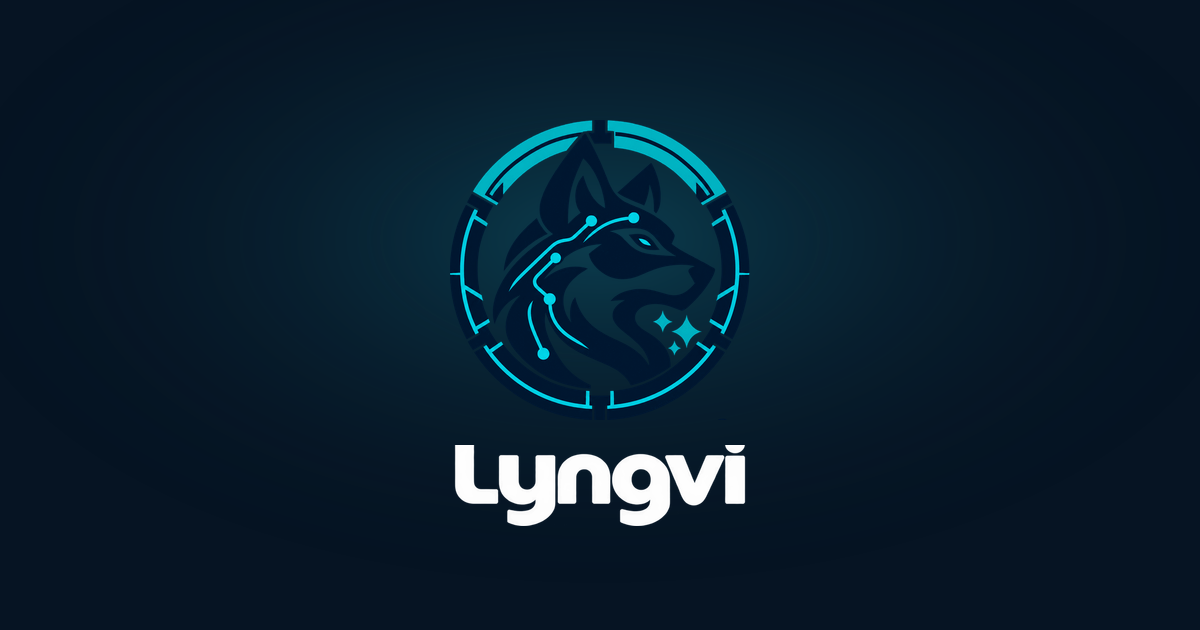
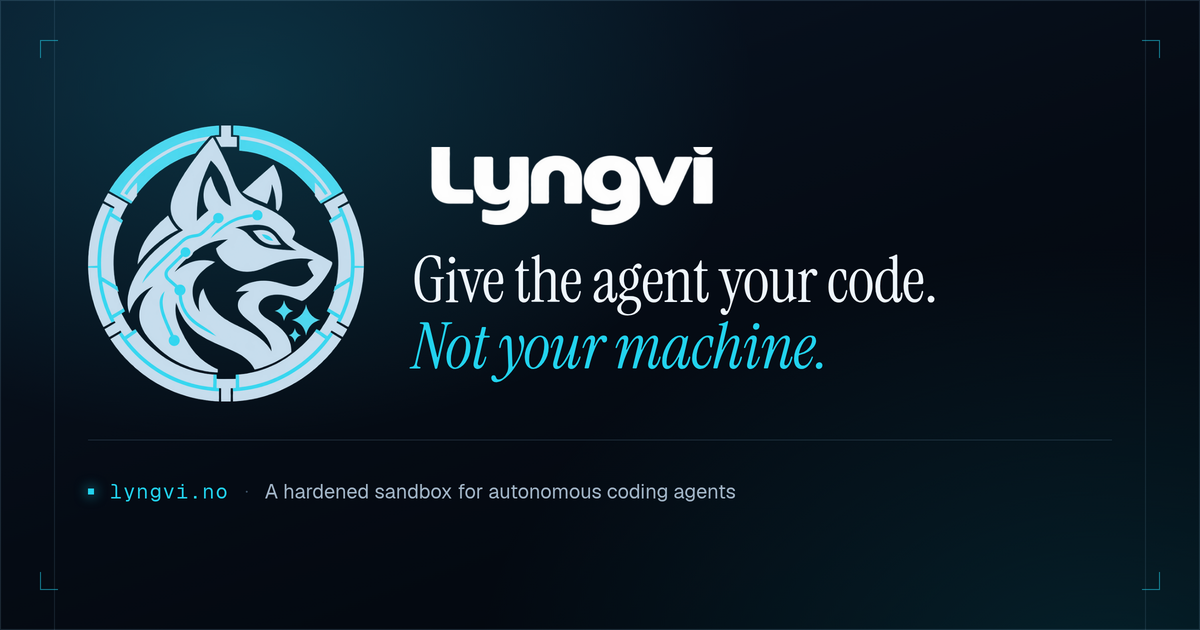
OpenGraphics image

diff --git a/landingpage/README.md b/landingpage/README.md
@@ -51,7 +51,7 @@ All of it comes from `docs/branding/`, and none of it is edited by hand:
 | `lyngvi-wordmark-{36,46}.png`      | the same two at `2x`, 146 × 36 and 188 × 46                                                                      |
 | `favicon.png`, `favicon-dark.png`  | the navy mark and the light one; `app.html` picks by `prefers-color-scheme`                                      |
 | `apple-touch-icon.png`             | the light mark on the brand navy, since iOS fills transparency with black                                        |
-| `og-image.png`                     | the social card: mark and wordmark on the brand navy with a cyan pool of light                                   |
+| `og-image.png`                     | the social card, 1200 × 630: the **light** mark, the wordmark and the hero line on the brand navy (see below)    |
 
 The mark and the wordmark are here at every size they are shown at, and nowhere
 in a size the browser has to scale: fine line work — the segmented ring, the
@@ -68,6 +68,33 @@ fixed CSS height take their width from the master's 600 × 147, rounded, and the
 `2x` file is exactly twice the `1x` one so no size lands on half a pixel. The
 same pass clears the stray speck outside the ring (every blob under 20 px of the
 master's), which at 26 px read as a smudge of dirt beside the mark.
+
+## The social card
+
+`og-image.png` is what Slack, LinkedIn, X and the rest show when the page is
+pasted, so it is seen on their background, not ours — almost always a dark one.
+The mark on it is therefore the **light** one: the navy wolf of
+`docs/branding/lyngvi-mark.png` on the navy card was a cyan ring around a dark
+blob, which is the same failure the app icons have a pale plate to avoid. Beside
+it the card carries the white wordmark, the hero line (Instrument Serif, the
+second line in cyan italic) and one Geist Mono line with the site and the
+one-sentence description, on the page's own background: the navy, a cyan pool of
+light at the top left, a hairline rail down each edge and the corner ticks.
+
+It is made the way the screenshots are, by rendering it rather than drawing it,
+so the type is the page's own: an HTML file at 1200 × 630 that links the
+`@fontsource` packages from `node_modules`, screenshotted with
+`chromium --headless --screenshot --window-size=1200,630 --force-device-scale-factor=2`
+and downscaled from that 2× render to 1200 × 630 with `sharp`
+(`lanczos3`, then `sharpen({ sigma: 0.4, m1: 0.5, m2: 0.8 })`). The light mark it
+places is cut at 600 px from the 902 px master with the recipe in
+`docs/branding/README.md` — map every pixel by how cyan it is, the artwork's cyan
+(42, 216, 242) staying and everything else becoming `#c9dfef` — with the stray
+blobs outside the ring cleared first: the biggest is 112 px and the smallest real
+detail, a sparkle, is 648, so dropping every blob of 200 px or less is safe.
+Keep the card's hero line and description in step with `content.js`; the card is
+English, because that is the language the page prerenders and the one the
+`og:` tags carry.
 
 Text changes belong in `src/lib/content.js`, and both languages have to be kept
 in step — the components read the same keys from either. The three typefaces

diff --git a/docs/branding/README.md b/docs/branding/README.md
@@ -8,7 +8,7 @@ Lyngvi being the island where Fenrir was bound.
 |---|---|
 | `lyngvi-logo.png` | the full lockup (mark + wordmark), 902 × 1151, transparent |
 | `lyngvi-mark.png` | the mark on its own, square, 902 × 903, transparent |
-| `lyngvi-mark-light.png` | the mark with the navy repainted `#c9dfef` and the cyan kept, 256 × 256 — the master the landing page's sizes are cut from, because the navy wolf on a navy page is a dark blob |
+| `lyngvi-mark-light.png` | the mark with the navy repainted `#c9dfef` and the cyan kept, 256 × 256 — the master the landing page's sizes are cut from, because the navy wolf on a navy page is a dark blob. The social card needs it larger and cuts its own 600 px copy from `lyngvi-mark.png` with the same recipe; `landingpage/README.md` has that pass |
 | `lyngvi-wordmark.png` | the wordmark cut off the bottom of `lyngvi-logo.png` and recoloured white through its own alpha, 600 × 147 — the other landing page master |
 
 The first two are trimmed to the artwork, so they can be placed without having to crop first. The colours
